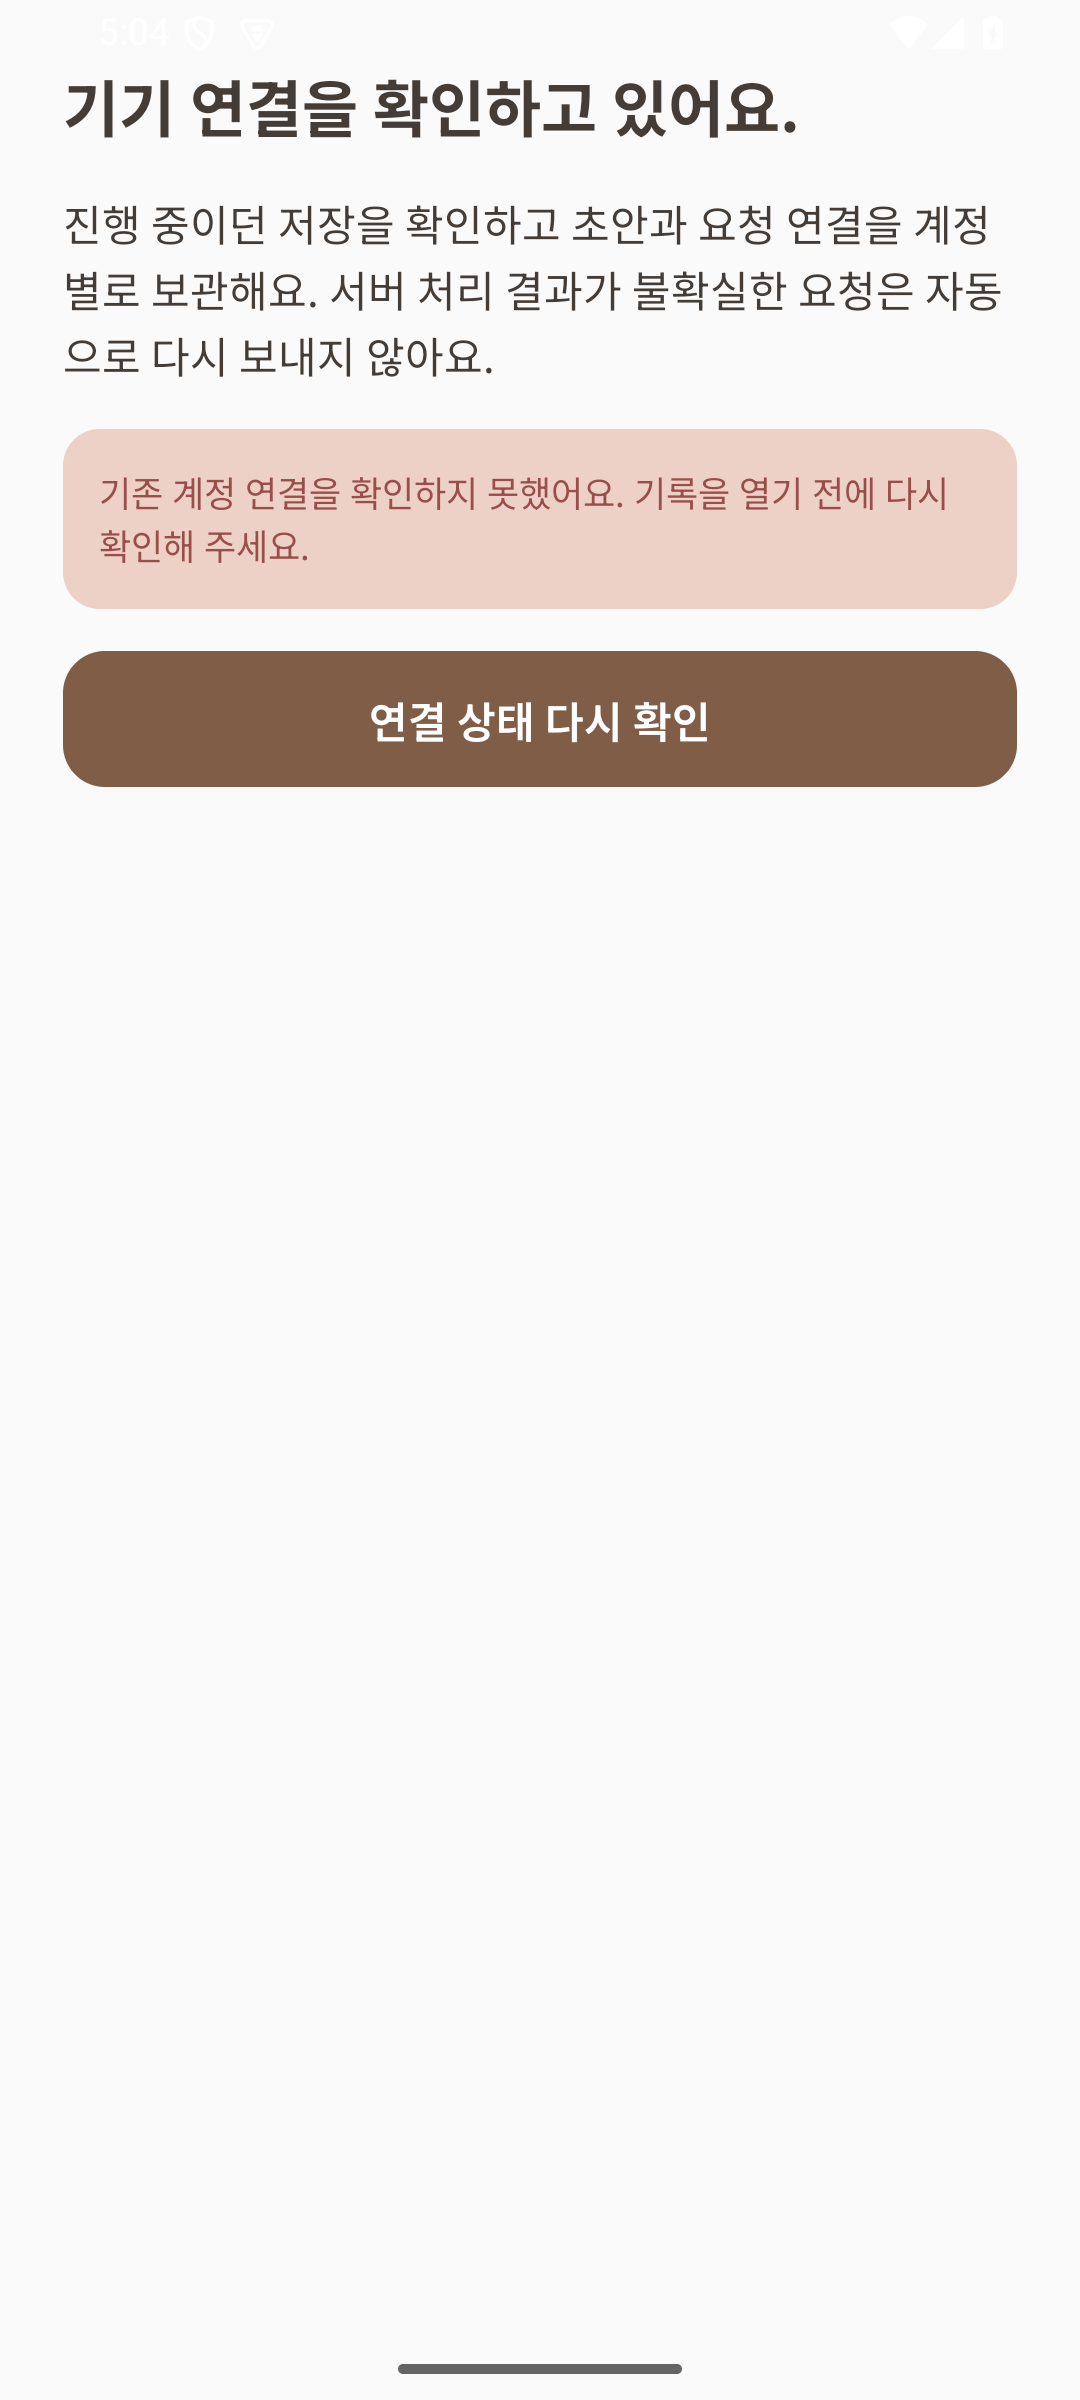
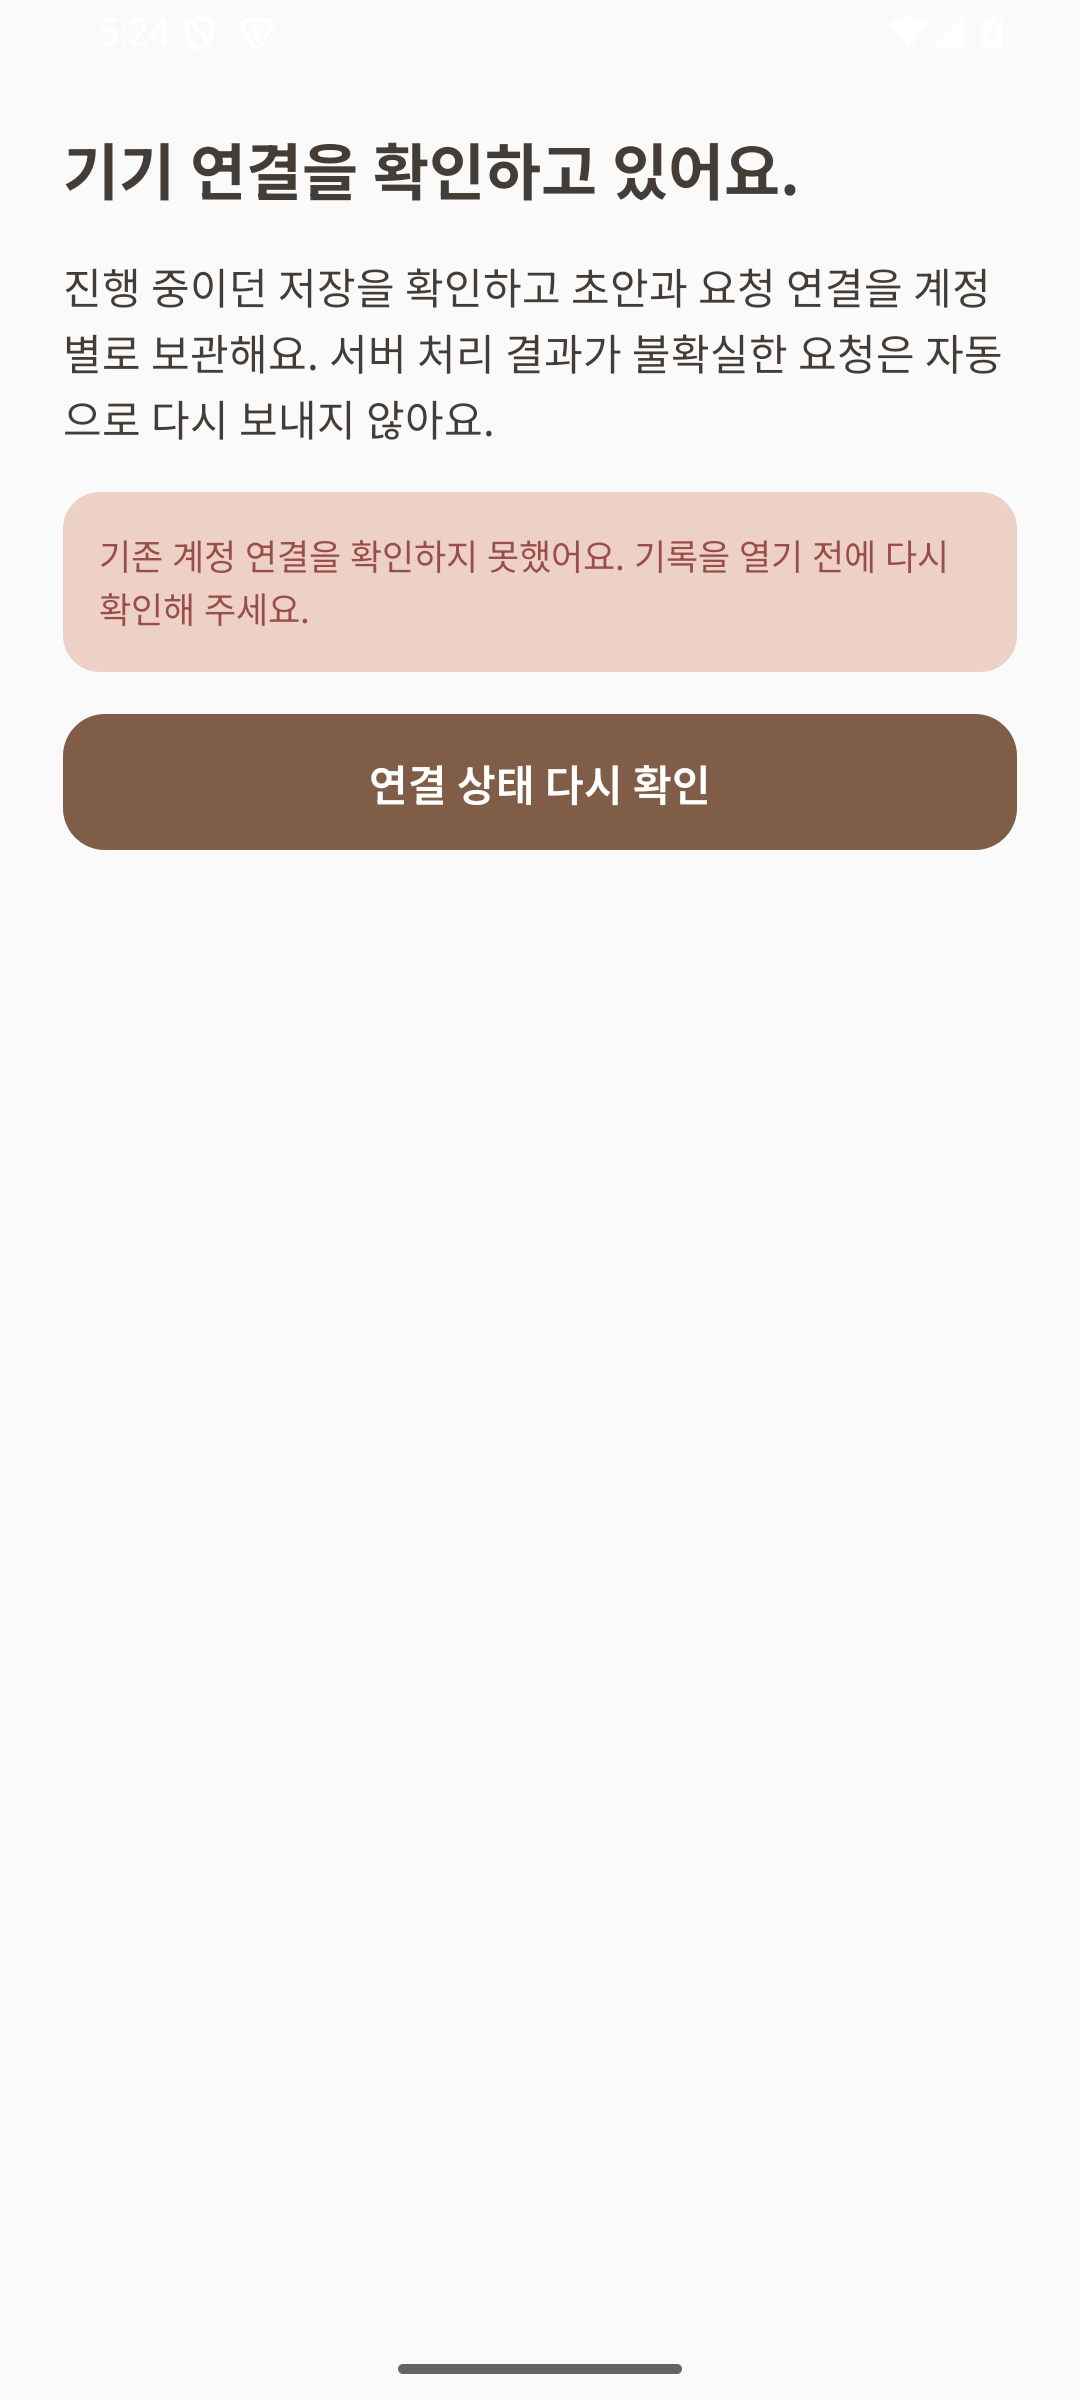
docs(delivery): record final Android and iOS verification

Changed region(s): [[0.0611, 0.0312, 0.9472, 0.375]]

diff --git a/docs/quality/three-skins-20261107/ANDROID-DELIVERY.md b/docs/quality/three-skins-20261107/ANDROID-DELIVERY.md
@@ -1,6 +1,6 @@
 # 세 공간 Android 납품 기록
 
-[설치 파일과 체크섬](https://github.com/tarobo22/taro/releases/tag/untagged-e3f0a7ff0b87244ccae8) · GitHub 초안 릴리스
+[설치 파일과 체크섬](https://github.com/tarobo22/taro/releases/tag/untagged-815d965dc371e2631e4c) · GitHub 초안 릴리스
 
 | 설치본 | 검증 |
 |---|---|
@@ -24,7 +24,7 @@
 | JSON·이미지만 바꾸면 Gradle이 이전 번들 재사용 | Android 번들 작업의 입력에 src JSON과 assets 추가 | JS 코드를 그대로 두고 API 포트만 바꿨을 때 새 값이 번들에 들어감 |
 | Android에서 중첩 SVG 위치가 달라 고양이 눈·입이 몸 밖에 렌더링 | 몸과 같은 좌표계의 SVG 그룹으로 얼굴 위치 지정 | 수정 APK의 실제 놀이방 화면에서 정상 표시 |
 
-앱 코드: 115cc48995e5d0daa52bc2b9aa2a236f16bdfaa9. 기존 기능 테스트는 수정·삭제·완화하지 않았다. [최종 코드의 RN 검사](https://github.com/tarobo22/taro/actions/runs/42340678125)에서 타입·기능·번들 검증 통과.
+앱 코드: 73cf377261efd9e944ced231ca04a01f063b6a07. 기존 기능 테스트는 수정·삭제·완화하지 않았다. [최종 코드의 RN 검사](https://github.com/tarobo22/taro/actions/runs/42342416777)에서 타입·기능·번들 검증 통과.
 
 ## 미리보기 실행과 재현
 
@@ -48,4 +48,6 @@ cd android
 
 기존 APK는 저장된 테스트 세션의 연결을 확인하는 중에 Store가 필요한 재시도 버튼을 렌더링해 예외가 발생했다. 수정 APK에서 QA API 연결을 끊은 채 실행하고 재시도 버튼을 눌렀다. 앱 프로세스가 유지됐고, 재시도 실패 메시지도 표시됐다. 연결을 복원하고 앱을 다시 열자 선택한 놀이방이 유지됐다. [실제 재시도 화면](native/android-startup-recovery.png)
 
-iOS의 [실패 실행](https://github.com/tarobo22/taro/actions/runs/42337300637)에서 같은 예외가 확인됐다. [수정 커밋의 시뮬레이터 실행](https://github.com/tarobo22/taro/actions/runs/42340677998)에서 재검증 중이다. Swift 규칙 테스트는 유지했고, 실행 후 PID와 설치된 실행 파일을 대조하도록 승인받은 CI 설정을 적용했다.
+iOS의 [실패 실행](https://github.com/tarobo22/taro/actions/runs/42337300637)에서 같은 예외를 확인했다. [앱 종료 수정 후 실행](https://github.com/tarobo22/taro/actions/runs/42340677998)은 통과했고, 캡처에서 제목이 다이내믹 아일랜드와 겹쳤다. 연결 복구 화면에 안전 영역을 적용했다. Android에서 제목·재시도·놀이방 복원을 다시 확인했고, [최종 iOS 시뮬레이터 검사](https://github.com/tarobo22/taro/actions/runs/42342416808)도 통과했다.
+
+iPhone 16에서 Swift 테스트 6건, 빌드·설치, 실행 5초 뒤 PID와 실행 파일 일치, 화면 캡처 및 딥링크 열기 명령을 확인했다. [iOS 실제 복구 화면](native/ios-launch.png)에서 제목과 재시도 버튼이 다이내믹 아일랜드에 가려지지 않는다. 이 시뮬레이터 검증은 연결 복구 화면까지이며 실제 계정 로그인은 검증 범위에 포함하지 않았다.
